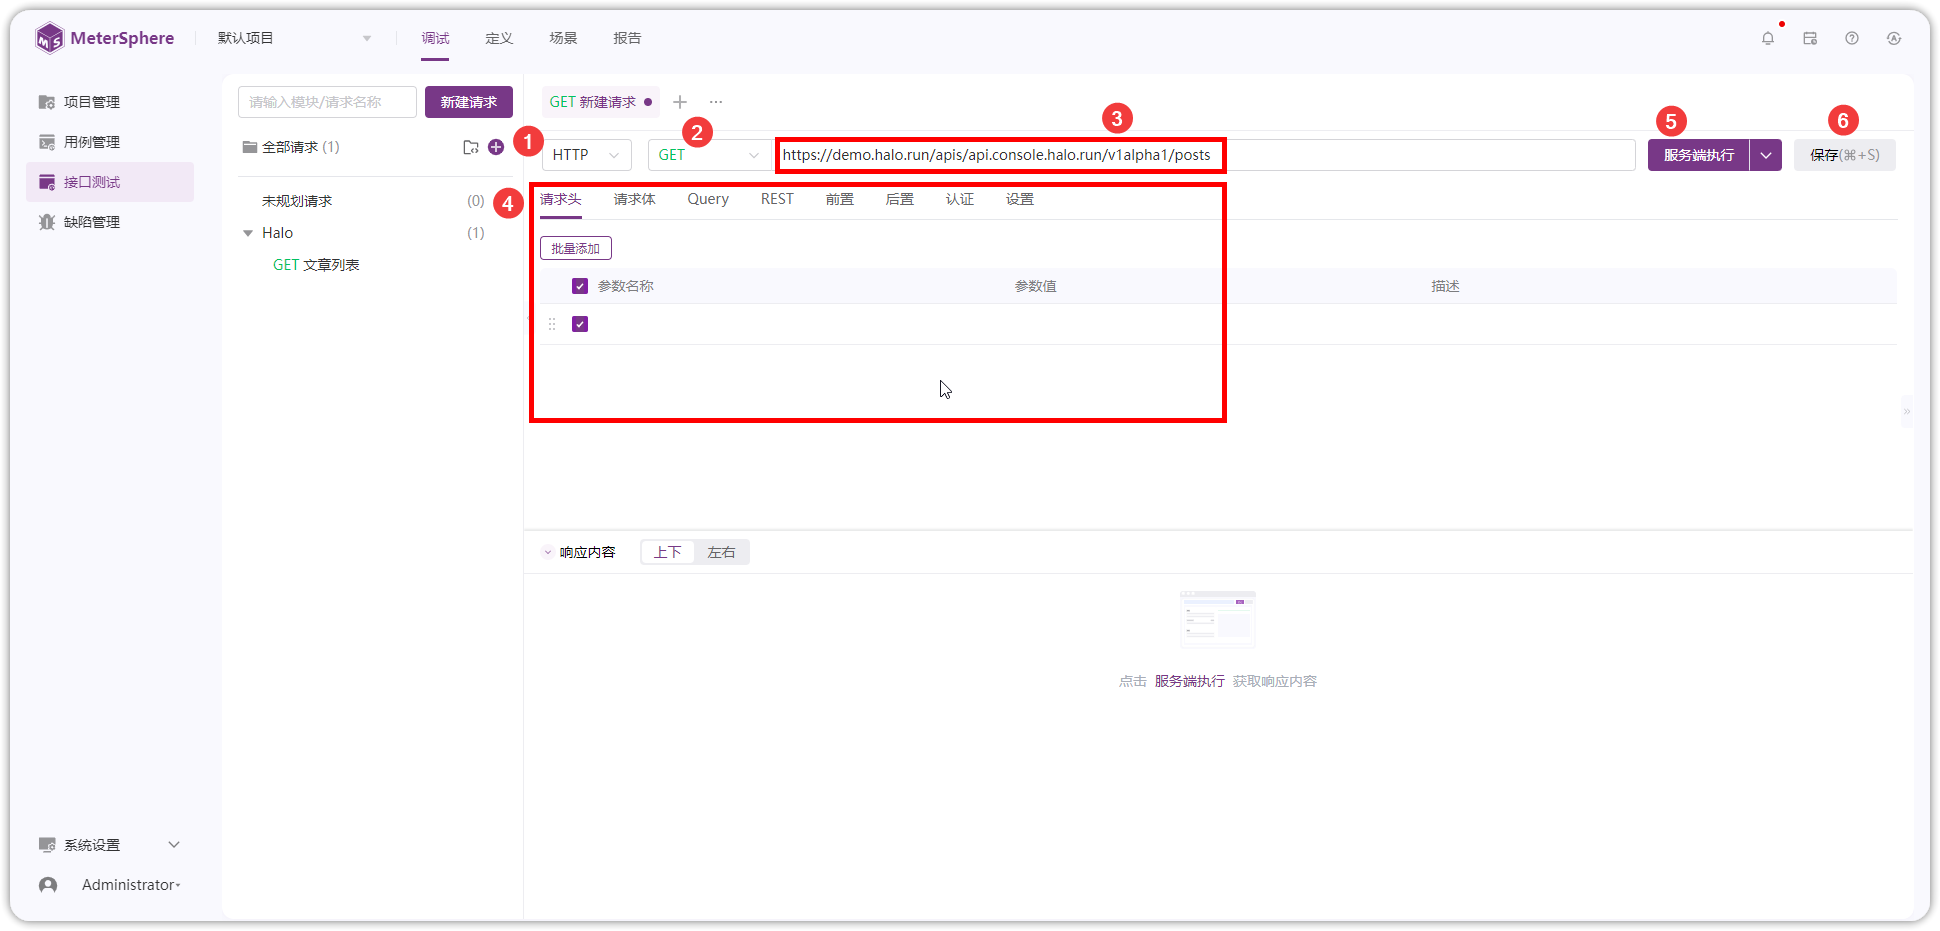
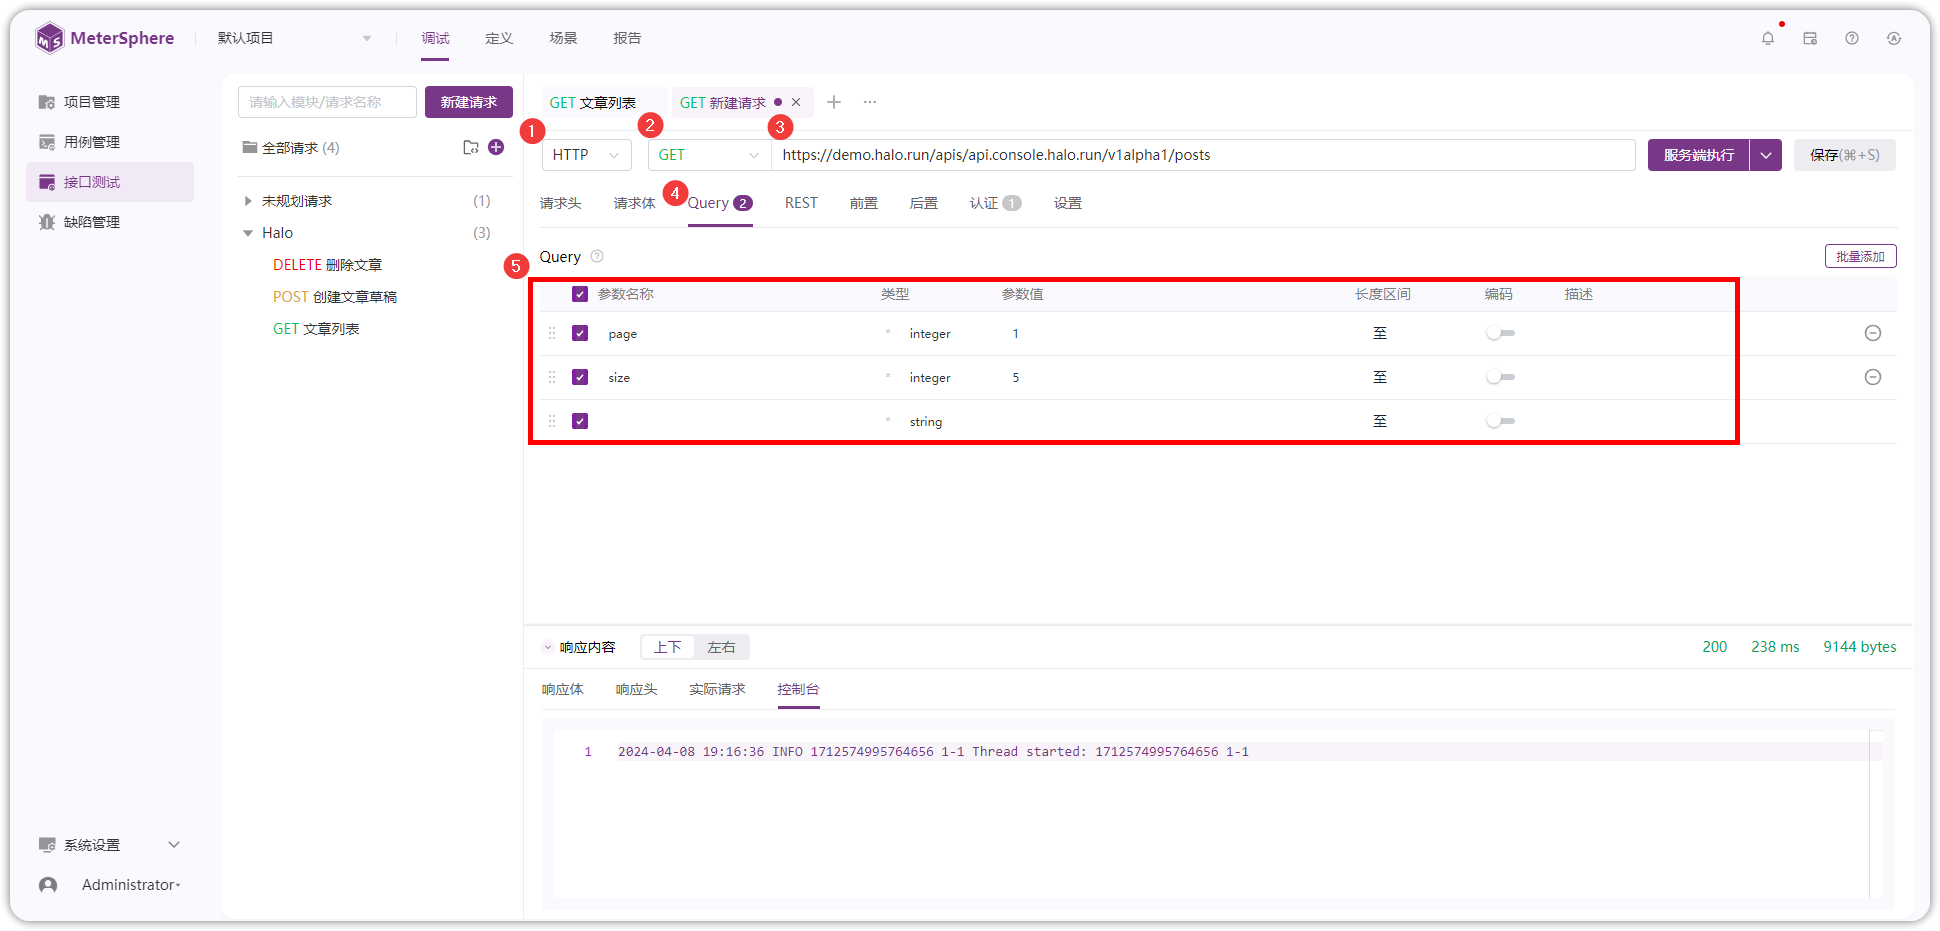
docs: 快速开始-接口测试

diff --git a/docs/quick_start/api_test.md b/docs/quick_start/api_test.md
@@ -5,23 +5,15 @@ description: MeterSphere 一站式开源持续测试平台官方文档。MeterSp
 ## 1 调试
 !!! ms-abstract ""
     如下图，点击【新建请求】或者【＋】新建接口请求。
-![!新建请求1](../img/quick_start/api/新建请求1.png){ width="900px" }
+![!新建请求](../img/quick_start/api/新建请求1.png){ width="900px" }
 
 !!! ms-abstract ""
-    接下来按下图序号顺序，依次选择接口协议、接口方法，输入 请求 URL 和 请求参数，点击调试后保存或直接保存。
-![!新建请求1](../img/quick_start/api/新建请求2.png){ width="900px" }
-
-!!! ms-abstract "说明" 
-    - 序号1：接口协议类型，默认 http 协议。（接口协议插件拓展后支持多选，接口插件可以参考：xxxx）
-    - 序号2：接口方法类型（支持 GET、POST、PUT、DELETE、PATCH、OPTIONS、HEAD、CONNECT）
-    - 序号3：输入包含 http 或 https 的完整 URL。（如：`https://demo.halo.run/apis/api.console.halo.run/v1alpha1/posts`）
-    - 序号4：输入请求头、请求体、前后置操作、认证方式等。
-    - 序号5：选择服务端执行或者本地执行。
-    - 序号6：保存。
+    接下来按下图序号顺序，选择 HTTP 协议、GET 方法，输入 `https://demo.halo.run/apis/api.console.halo.run/v1alpha1/posts` URL 地址，选择 Query 参数，输入 `page 等于 1，size 等于 5`。
+![!新建请求](../img/quick_start/api/新建请求2.png){ width="900px" }
 
 !!! ms-abstract "" 
-    如下图，输入接口的认证信息，可根据具体接口的登录认证类型，选择认证方式、请求头输入 cookie、前置脚本获取 token 等认证方式。如下图 Halo 接口采用 Basic Auth 登录认证。<br>
-![!执行](../img/quick_start/api/执行.png){ width="900px" }  
+    接下来输入接口认证信息，如下图 Halo 接口采用 Basic Auth 登录认证，选择 `Basic Auth`,`用户名：demo，密码：P@ssw0rd123..`，点击【服务端执行】，执行成功后保存。
+![!新建请求](../img/quick_start/api/执行.png){ width="900px" }  
 
 !!! ms-abstract "注意" 
     本地执行需在本地安装 task_runner 和 在个人信息处配置 本地 task_runner 的地址。
